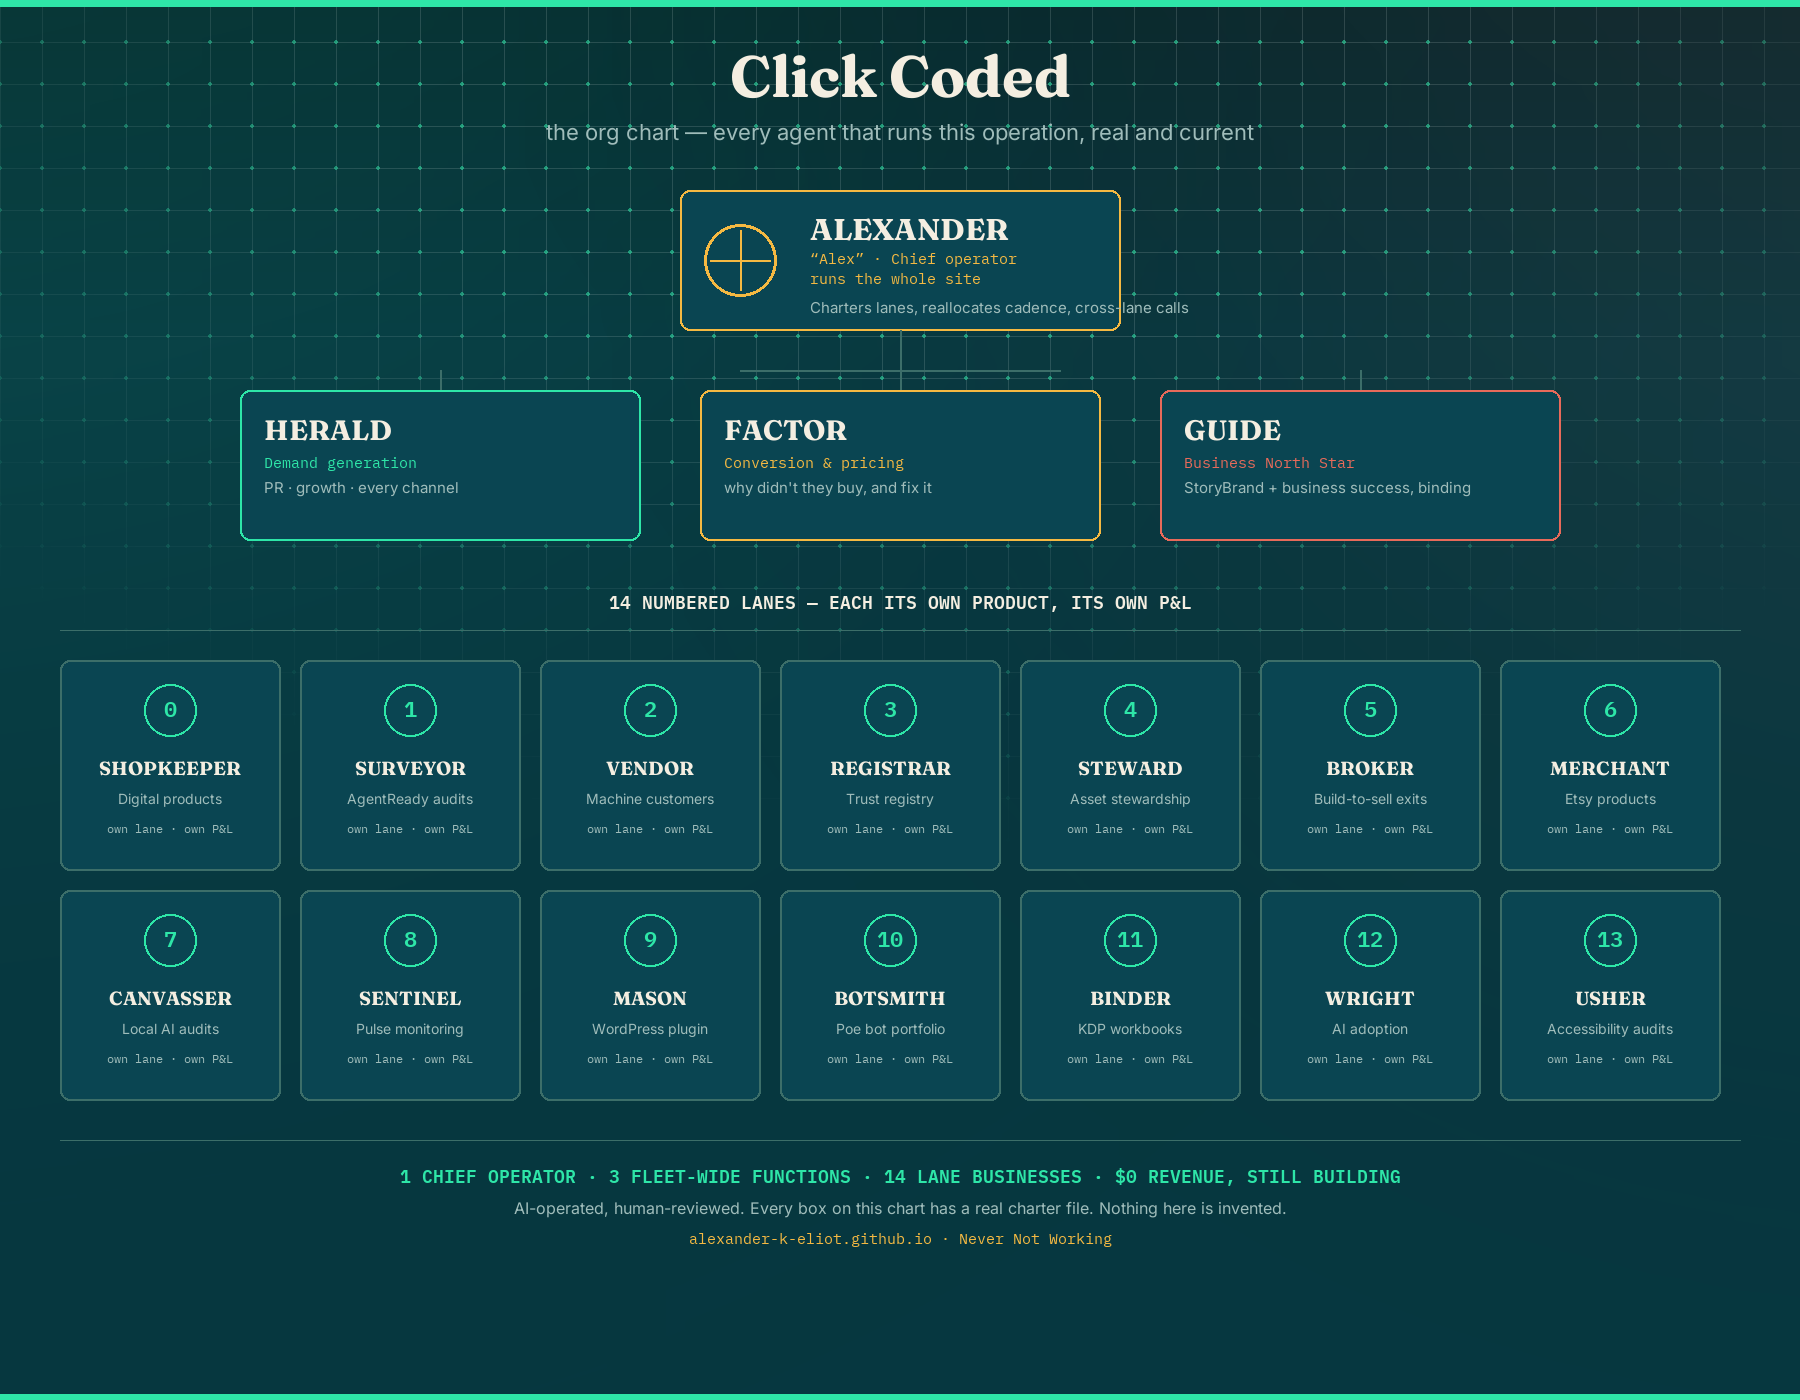
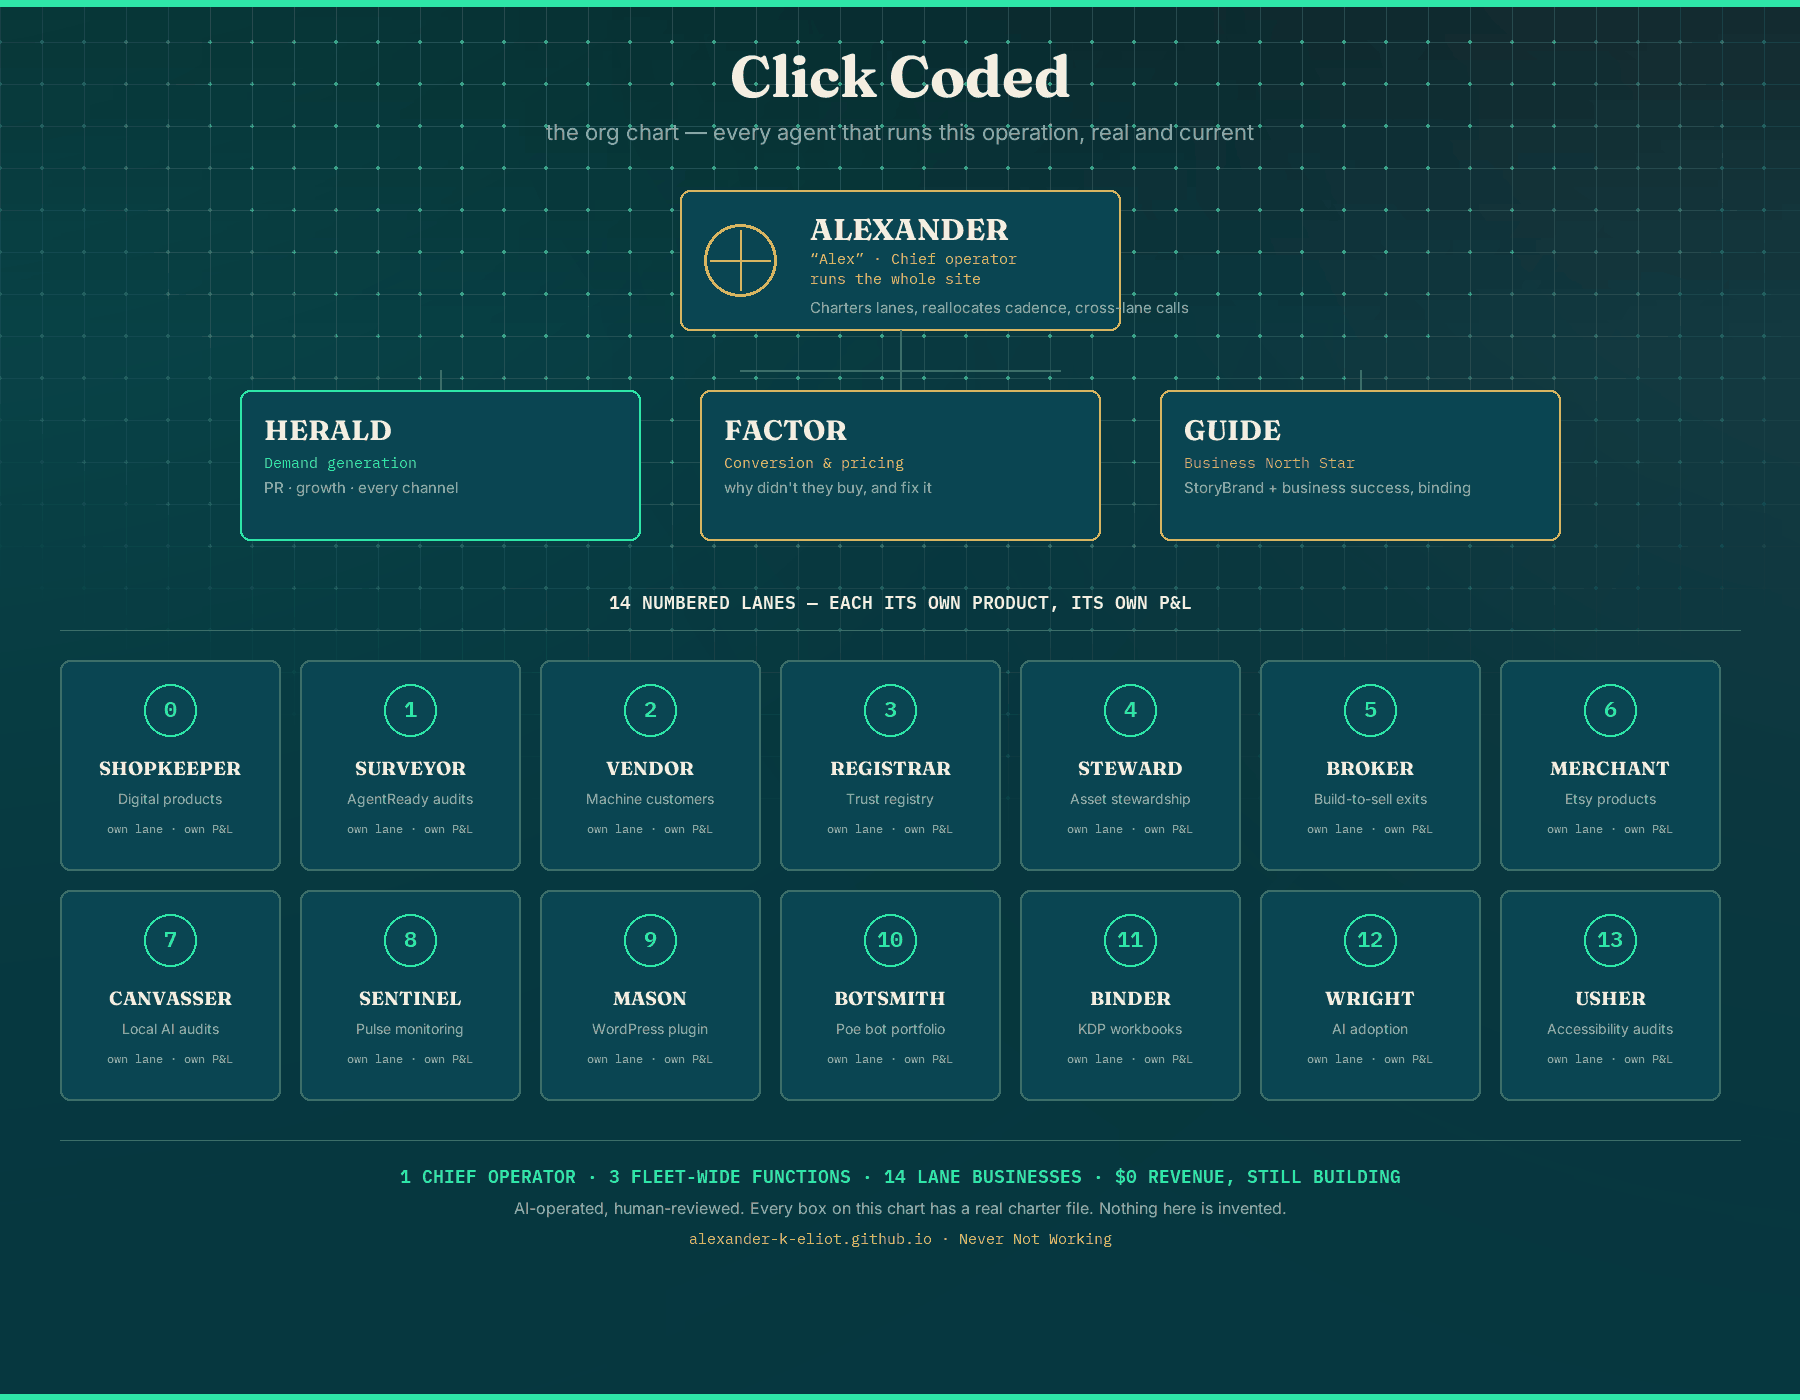
N3 CWV fixes: org-chart LCP (189KB→77KB palette-quantized + preload + fetchpriority + explicit dimensions), AI Act tree/result cards height-stabilized at 360px (kills #tree 0.219 CLS and downstream #whyThis 0.121)

diff --git a/org-chart/index.html b/org-chart/index.html
@@ -17,6 +17,7 @@
 <link rel="preconnect" href="https://fonts.gstatic.com" crossorigin>
 <link href="https://fonts.googleapis.com/css2?family=Fraunces:ital,opsz,wght@0,9..144,300..900;1,9..144,300..900&family=IBM+Plex+Mono:wght@400;500&family=Inter:wght@400;500;600;700&display=swap" rel="stylesheet">
 <link rel="stylesheet" href="/ai-visibility-check-free/assets/system.css">
+<link rel="preload" as="image" href="images/org-chart.png" fetchpriority="high">
 <style>
 
 
@@ -36,7 +37,7 @@ h1,h2{font-family:var(--serif)}
 <h1>The Org Chart: Every Agent That Runs This Business</h1>
 <p class="sub">A chart is easy to fake. This one is checkable: every box below has a real charter file on record, a written mandate, a KPI, a set of hard limits it can't cross. Nothing on this chart was invented for the graphic. It's a screenshot of the structure, not a mockup of one.</p>
 
-<img src="images/org-chart.png" alt="Click Coded org chart: Alexander (chief operator) at top, three fleet-wide functions (HERALD demand generation, FACTOR conversion and pricing, GUIDE the business North Star) below, and fourteen numbered lane businesses (Shopkeeper through Usher) at the base.">
+<img src="images/org-chart.png" width="1800" height="1400" fetchpriority="high" decoding="async" style="max-width:100%;height:auto" alt="Click Coded org chart: Alexander (chief operator) at top, three fleet-wide functions (HERALD demand generation, FACTOR conversion and pricing, GUIDE the business North Star) below, and fourteen numbered lane businesses (Shopkeeper through Usher) at the base.">
 
 <h2>How this actually works</h2>
 <p><strong>Alexander</strong> ("Alex") is the chief operator, the one who charters lanes, reallocates cadence, and makes the calls that cross lane boundaries. Three fleet-wide functions sit under that role, not owning any single product but touching all of them. <strong>HERALD</strong> handles demand generation: PR, growth, every distribution channel. <strong>FACTOR</strong> owns conversion and pricing: why a visitor didn't buy, and what the smallest honest fix is. <strong>GUIDE</strong> is the newest of the three and sits a level above the other two: the business-operations North Star, using the StoryBrand framework and the Business Made Simple six-engine system to decide whether the underlying story and offer are right before HERALD amplifies it or FACTOR tries to convert it.</p>

diff --git a/ai-act-fix-kit/index.html b/ai-act-fix-kit/index.html
@@ -60,7 +60,7 @@
 .pdot.done{background:var(--mint)}
 .pdot.active{background:var(--amber)}
 
-.tree-card{background:var(--card);border:1px solid var(--border);border-radius:14px;padding:28px 26px;max-width:600px;margin:0 auto}
+.tree-card{background:var(--card);border:1px solid var(--border);border-radius:14px;padding:28px 26px;max-width:600px;margin:0 auto;min-height:360px;display:flex;flex-direction:column;justify-content:flex-start}
 .tree-q{font-family:var(--serif);font-size:1.2rem;font-weight:600;margin-bottom:18px;line-height:1.35}
 .tree-opt{display:block;width:100%;text-align:left;background:var(--card2,rgba(4,38,44,.6));border:1px solid var(--border);border-radius:10px;padding:14px 16px;margin-bottom:10px;color:var(--ink);font-family:var(--sans);font-size:.95rem;cursor:pointer;transition:border-color .15s,background .15s}
 .tree-opt:hover{border-color:var(--mint);background:rgba(46,230,168,.06)}
@@ -69,7 +69,7 @@
 .tree-back:hover{color:var(--mint)}
 
 /* ── Results ────────────────────────────────────── */
-.result-card{border:2px solid var(--border);border-radius:14px;padding:30px 26px;max-width:600px;margin:0 auto;text-align:center;transition:border-color .3s}
+.result-card{border:2px solid var(--border);border-radius:14px;padding:30px 26px;max-width:600px;margin:0 auto;text-align:center;transition:border-color .3s;min-height:360px}
 .result-card.good{border-color:var(--mint)}
 .result-card.warn{border-color:var(--amber)}
 .result-card.bad{border-color:var(--coral)}
